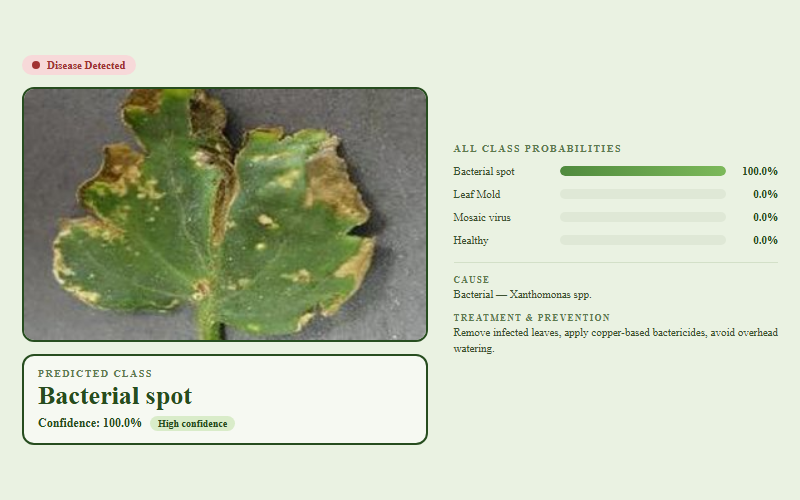
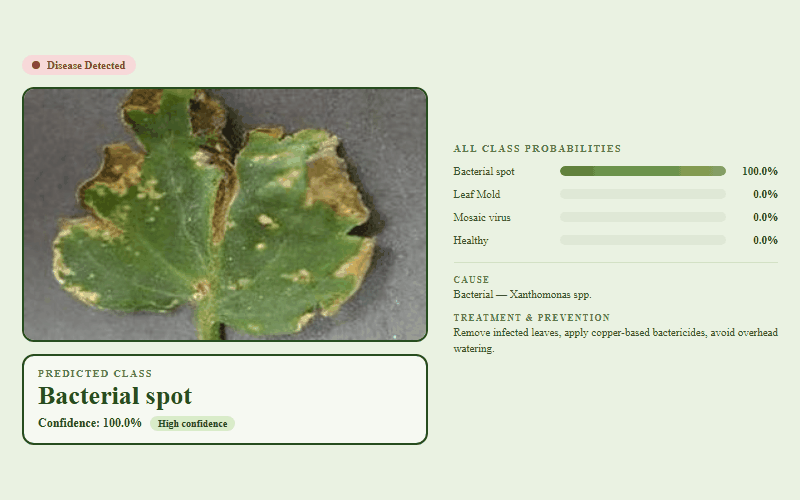
looping wipe slideshow for tomato card

diff --git a/css/style.css b/css/style.css
@@ -439,6 +439,56 @@ a:hover { text-decoration: underline; }
   display: block;
 }
 
+/* looping wipe slideshow (tomato card): incoming slide wipes in over the old one.
+   both screenshots are 16:10, so they fill the box edge-to-edge and line up mid-wipe */
+.slide-show {
+  position: relative;
+  aspect-ratio: 16 / 10;
+  overflow: hidden;
+  background: #0a1019;
+}
+.slide-show .slide {
+  position: absolute;
+  inset: 0;
+  width: 100%;
+  height: 100%;
+  object-fit: contain;
+  z-index: 1;
+}
+.slide-show .slide--active {
+  z-index: 2;
+  animation: slide-wipe 1.1s ease-in-out both;
+}
+@keyframes slide-wipe {
+  from { clip-path: inset(0 0 0 100%); }
+  to   { clip-path: inset(0 0 0 0); }
+}
+.slide-show__dots {
+  position: absolute;
+  bottom: 10px;
+  left: 0;
+  right: 0;
+  display: flex;
+  justify-content: center;
+  gap: 6px;
+  pointer-events: none;
+}
+.slide-show__dot {
+  width: 6px;
+  height: 6px;
+  border-radius: 50%;
+  background: rgba(230, 237, 243, 0.35);
+  transition: background 0.3s, transform 0.3s;
+}
+.slide-show__dot--active {
+  background: var(--accent);
+  transform: scale(1.25);
+}
+@media (prefers-reduced-motion: reduce) {
+  .slide-show .slide { transition: none; }
+  .slide-show .slide--active { animation: none; }
+}
+
 .project-card__body {
   padding: 22px 24px 24px;
   display: flex;

diff --git a/portfolio.html b/portfolio.html
@@ -229,8 +229,13 @@
             <div class="gacha-card__inner">
               <!-- FRONT -->
               <div class="gacha-card__face gacha-card__front">
-                <div class="project-card__media">
-                  <img src="assets/projects/tomato-disease2.png" alt="TomaLeaf AI web app — home page of the tomato leaf disease classification tool" loading="lazy" />
+                <div class="project-card__media slide-show" data-slide-show>
+                  <img class="slide" src="assets/projects/tomato-disease2.png" alt="TomaLeaf web app home page" loading="lazy" />
+                  <img class="slide" src="assets/projects/tomato-disease.png" alt="TomaLeaf web app prediction result: bacterial spot, 100% confidence" loading="lazy" />
+                  <div class="slide-show__dots" aria-hidden="true">
+                    <span class="slide-show__dot slide-show__dot--active"></span>
+                    <span class="slide-show__dot"></span>
+                  </div>
                 </div>
                 <div class="project-card__body">
                   <h3>Tomato Leaf Disease Classification</h3>

diff --git a/js/script.js b/js/script.js
@@ -256,3 +256,21 @@ function streamTick() {
 // seed a few rows so it never looks empty, then keep ticking
 for (let i = 0; i < 6; i++) streamTick();
 setInterval(streamTick, 2400);
+
+// ============================================================
+//  C. looping crossfade slideshow (tomato card)
+// ============================================================
+const SLIDE_MS = 4000;
+document.querySelectorAll("[data-slide-show]").forEach((show) => {
+  const slides = Array.from(show.querySelectorAll(".slide"));
+  const dots = Array.from(show.querySelectorAll(".slide-show__dot"));
+  if (slides.length < 2) return;
+  let i = 0;
+  const render = (n) => {
+    slides.forEach((s, idx) => s.classList.toggle("slide--active", idx === n));
+    dots.forEach((d, idx) => d.classList.toggle("slide-show__dot--active", idx === n));
+  };
+  render(0);
+  if (reducedMotion) return; // respect reduced-motion: stay on the first slide
+  setInterval(() => { i = (i + 1) % slides.length; render(i); }, SLIDE_MS);
+});
